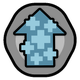
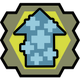
Better archite background handling
Codex-Assisted: true

diff --git a/Scripts/gene_art.py b/Scripts/gene_art.py
@@ -79,11 +79,24 @@ def texture_path(icon_path):
     return path
 
 
-def gene_background(definition, parents):
+def gene_background(definition, parents, archites):
     path = inherited_text(
         definition, "modExtensions/li[@Class='Xylib.DefModExtension_GeneWithComps']/backgroundPath",
         parents)
-    return texture_path(path) if path else None
+    # The game's custom-background patch overrides its normal choice, including
+    # the archite background. Without an override, archite cost takes precedence
+    # over whether a gene is an endogene or xenogene.
+    if path:
+        return texture_path(path)
+    if archites > 0:
+        return ART_DIR / "Genes/GeneBackground_ArchiteGene.png"
+    return None
+
+
+def psycast_biostats(template, level):
+    return next(stats for stats in template.findall("biostats/li")
+                if int(stats.findtext("levels").split("~")[0]) <= level
+                <= int(stats.findtext("levels").split("~")[-1]))
 
 
 def read_gene_icons(game_data):
@@ -106,8 +119,9 @@ def read_gene_icons(game_data):
         if name in icons:
             raise ValueError(f"Duplicate gene: {name}")
         label = inherited_text(gene, "label", parents) or name
+        archites = int(inherited_text(gene, "biostatArc", parents) or 0)
         icons[name] = GeneIcon(name, label, texture_path(icon_path), color,
-                               gene_background(gene, parents))
+                               gene_background(gene, parents, archites))
 
     # Mirror GeneDefGenerator's template naming and ability icon substitution for
     # the psycasts referenced by the mod's xenotypes, rather than unused abilities.
@@ -124,7 +138,6 @@ def read_gene_icons(game_data):
         wanted = {name for name in referenced if name.startswith(prefix)}
         if not wanted:
             continue
-        background = gene_background(template, template_parents)
         abilities = read_defs(game_data / "Royalty/Defs/AbilityDefs", "AbilityDef")
         ability_parents = {ability.attrib["Name"]: ability for ability in abilities
                            if "Name" in ability.attrib}
@@ -136,6 +149,9 @@ def read_gene_icons(game_data):
             icon_path = template.findtext("iconPath").format(path)
             label = template.findtext("label").format(
                 inherited_text(ability, "label", ability_parents) or name)
+            level = int(inherited_text(ability, "level", ability_parents))
+            archites = int(psycast_biostats(template, level).findtext("biostatArc", "0"))
+            background = gene_background(template, template_parents, archites)
             icons[name] = GeneIcon(name, label, texture_path(icon_path), WHITE, background)
         if missing := wanted - icons.keys():
             raise ValueError(f"Missing psycast definitions: {sorted(missing)}")

diff --git a/Scripts/build-xenotype-cards.py b/Scripts/build-xenotype-cards.py
@@ -37,7 +37,8 @@ import xml.etree.ElementTree as ET
 
 from PIL import Image, ImageFont
 
-from gene_art import GAME_DATA, GENE_ICON_SCALE, inherited_text, parse_color, read_defs, read_gene_icons
+from gene_art import (GAME_DATA, GENE_ICON_SCALE, gene_background as resolve_gene_background,
+                      inherited_text, parse_color, psycast_biostats, read_defs, read_gene_icons)
 
 
 ROOT = Path(__file__).resolve().parents[1]
@@ -243,9 +244,7 @@ class GeneLibrary:
                 index, source = self.psycasts[source_name]
                 icon = self.value(definition, "iconPath").format(self.value(source, "iconPath"))
                 level = int(self.value(source, "level"))
-                stats = next(s for s in definition.findall("biostats/li")
-                             if int(s.findtext("levels").split("~")[0]) <= level
-                             <= int(s.findtext("levels").split("~")[-1]))
+                stats = psycast_biostats(definition, level)
                 complexity = int(stats.findtext("biostatCpx", "0"))
                 metabolism = int(stats.findtext("biostatMet", "0"))
                 archites = int(stats.findtext("biostatArc", "0"))
@@ -275,6 +274,7 @@ class GeneLibrary:
             background = rendered.background
         else:
             texture = ART / "Genes" / (icon.removeprefix("UI/Icons/Genes/") + ".png")
+            background = resolve_gene_background(definition, self.parents.get(definition.tag, {}), archites)
             color = parse_color(self.value(definition, "skinColorOverride")
                                 or self.value(definition, "hairColorOverride")
                                 or self.value(definition, "iconColor"))

diff --git a/Scripts/render-gene-icons.py b/Scripts/render-gene-icons.py
@@ -2,7 +2,7 @@
 
 Run from any directory: python path/to/Scripts/render-gene-icons.py
 Use --rimworld-data PATH if RimWorld/Data is outside the default Steam location.
-Outputs 80px PNGs named by defName in XylXenos/Data/Docs/Images/Genes/{Endo,Xeno,Arch},
+Outputs 80px PNGs named by defName in XylXenos/Data/Docs/Images/Genes/{Endo,Xeno},
 plus Art/Generated/gene-icon-sheet.png with labeled 128px endogene icons.
 Also outputs 48px xenotype PNGs named by defName in XylXenos/Data/Docs/Images/Xenotypes,
 with transparent backgrounds.
@@ -138,15 +138,14 @@ def main():
     args = parser.parse_args()
     genes = read_gene_icons(args.rimworld_data)
     for variant, filename in (("Endo", "GeneBackground_Endogene.png"),
-                              ("Xeno", "GeneBackground_Xenogene.png"),
-                              ("Arch", "GeneBackground_ArchiteGene.png")):
+                              ("Xeno", "GeneBackground_Xenogene.png")):
         default_background = ART_DIR / "Genes" / filename
         directory = OUTPUT / variant
         directory.mkdir(parents=True, exist_ok=True)
         for gene in genes:
             background = load_background(gene.background or default_background, ICON_SIZE)
             render_icon(gene.texture, background, gene.color, GENE_ICON_SCALE).save(directory / (gene.name + ".png"))
-    print(f"Saved {len(genes)} genes in Endo, Xeno, and Arch variants to {OUTPUT}")
+    print(f"Saved {len(genes)} genes in Endo and Xeno variants to {OUTPUT}")
     sheet = render_contact_sheet(genes)
     sheet_path = CONTACT_SHEET_OUTPUT / "gene-icon-sheet.png"
     sheet.save(sheet_path)

diff --git a/XylXenos/README.md b/XylXenos/README.md
@@ -471,7 +471,7 @@ These genes are available for custom xenotypes but are not part of the mod's xen
 | <img src="Data/Docs/Images/Genes/Endo/XylSpecialist.png" alt="Specialist" width="80" height="80"> | <img src="Data/Docs/Images/Complexity.png" alt="Complexity" width="24" height="24" align="absmiddle"> **2** <br> <img src="Data/Docs/Images/Metabolism.png" alt="Metabolism" width="24" height="24" align="absmiddle"> **-1** | [Specialist](Data/Defs/GeneDefs/GeneDefs_BonusGenes.xml) | The carrier's aptitude in one random skill is increased by 4. Aptitude acts like an offset on skill level. |
 | <img src="Data/Docs/Images/Genes/Endo/XylTail_Squirrel.png" alt="Squirrel tail" width="80" height="80"> | <img src="Data/Docs/Images/Complexity.png" alt="Complexity" width="24" height="24" align="absmiddle"> **1** <br> <img src="Data/Docs/Images/Metabolism.png" alt="Metabolism" width="24" height="24" align="absmiddle"> **-1** | [Squirrel tail](Data/Defs/GeneDefs/GeneDefs_Tails.xml) | Carriers of this gene grow a long, fluffy tail that keeps them warm and increases the opinion of other characters towards them. <br><sub>**Min comfortable temperature** -5.0C &middot; **Opinion** +8</sub> |
 | <img src="Data/Docs/Images/Genes/Endo/XylWeakGenes.png" alt="Weak genes" width="80" height="80"> | <img src="Data/Docs/Images/Complexity.png" alt="Complexity" width="24" height="24" align="absmiddle"> **1** | [Weak genes](Data/Defs/GeneDefs/GeneDefs_Reproduction.xml) | When a carrier of this gene has a baby with a partner without this gene, the baby will inherit all of the partner's endogenes and none of the carrier's. |
-| <img src="Data/Docs/Images/Genes/Arch/XylWoundHealing_UltraFast.png" alt="Ultra-fast wound healing" width="80" height="80"> | <img src="Data/Docs/Images/Complexity.png" alt="Complexity" width="24" height="24" align="absmiddle"> **4** <br> <img src="Data/Docs/Images/ArchiteCapsuleRequired.png" alt="Archite capsules" width="24" height="24" align="absmiddle"> **2** | [Ultra-fast wound healing](Data/Defs/GeneDefs/GeneDefs_Miscellaneous.xml) | Carriers of this gene heal wounds unnaturally quickly, often recovering from even the most serious injuries in mere hours. It won't fix permanent scars or blood loss. |
+| <img src="Data/Docs/Images/Genes/Endo/XylWoundHealing_UltraFast.png" alt="Ultra-fast wound healing" width="80" height="80"> | <img src="Data/Docs/Images/Complexity.png" alt="Complexity" width="24" height="24" align="absmiddle"> **4** <br> <img src="Data/Docs/Images/ArchiteCapsuleRequired.png" alt="Archite capsules" width="24" height="24" align="absmiddle"> **2** | [Ultra-fast wound healing](Data/Defs/GeneDefs/GeneDefs_Miscellaneous.xml) | Carriers of this gene heal wounds unnaturally quickly, often recovering from even the most serious injuries in mere hours. It won't fix permanent scars or blood loss. |
 
 ### Appearance genes
 
